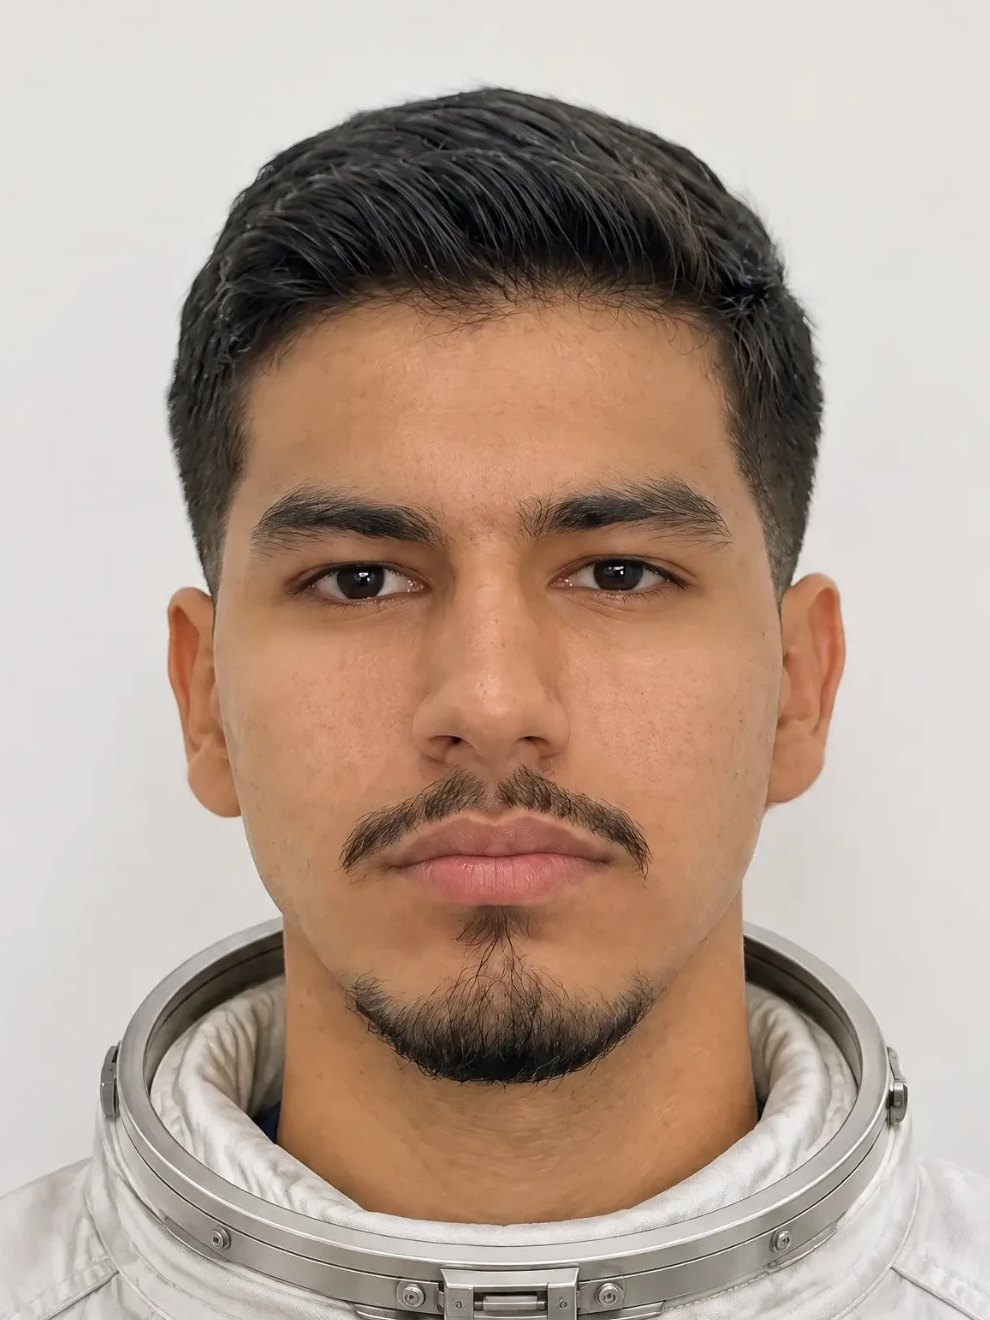
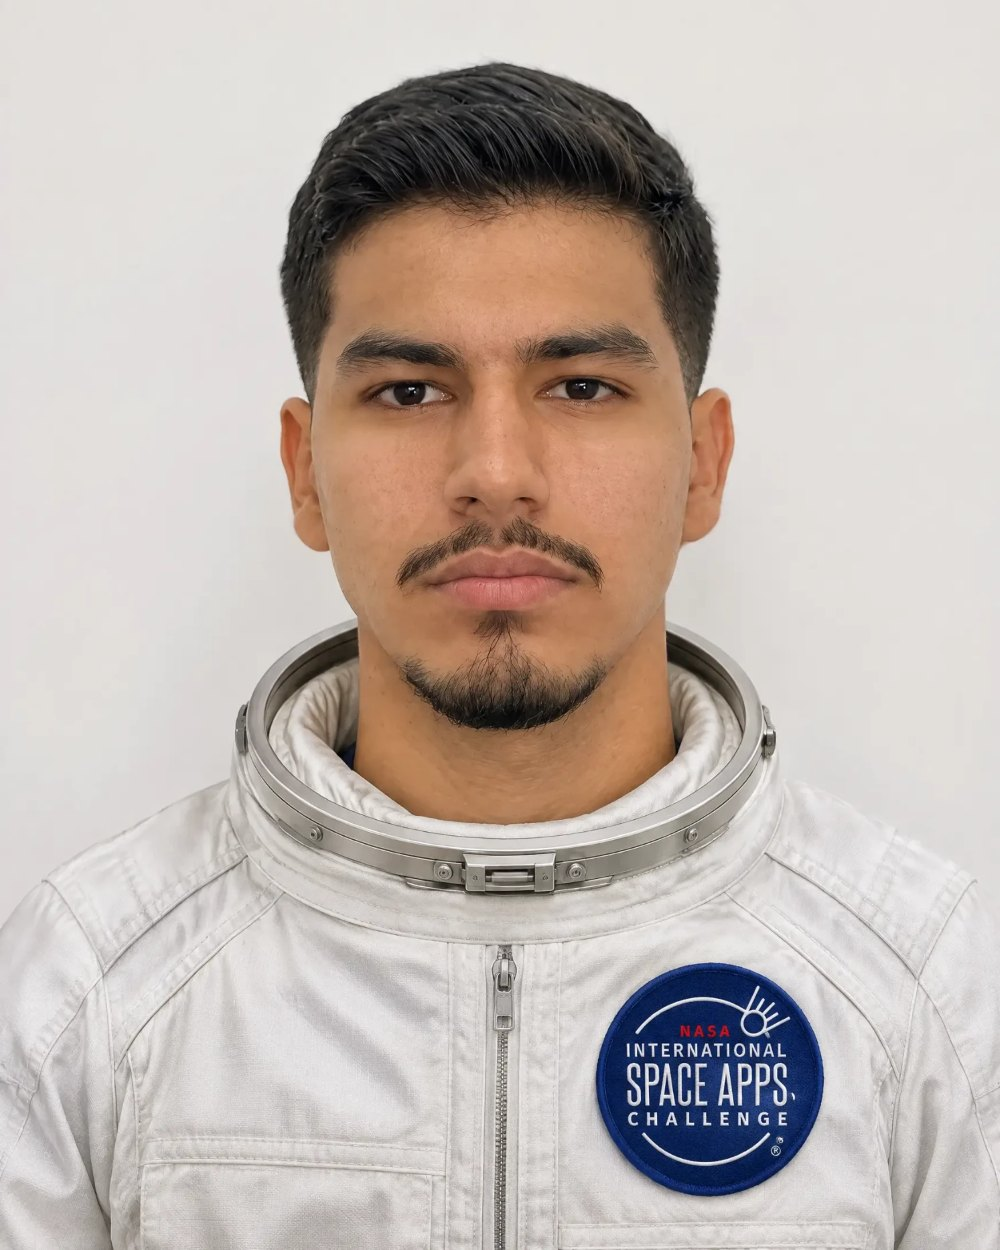
Crew portraits show the full suit with the Space Apps patch
Re-crop the AI-edited spacesuit photos to 4:5 keeping the chest patch, and
give the Crew view portraits a matching 4:5 frame so nothing is cut. Use of AI
paragraph notes that the patch was drawn by the AI edit.

diff --git a/src/styles/crew.css b/src/styles/crew.css
@@ -101,3 +101,5 @@
 .portrait.sm img{transform:scale(1.55);transform-origin:50% 30%}
 .portrait{background:#f2f2f2}
 @media (min-width:641px){.crew-card .portrait{aspect-ratio:auto;height:clamp(260px,26vw,340px)}}
+/* portraits keep the full 4:5 frame so the suit patch is never cut */
+@media (min-width:641px){.crew-card .portrait{height:clamp(260px,26vw,340px);width:auto;aspect-ratio:4/5;max-width:100%}}

diff --git a/README.md b/README.md
@@ -81,7 +81,7 @@ Sources are listed in [`docs/brain/Cerebro-SpaceApps-2026/Fuentes.md`](docs/brai
 
 ## Use of AI
 
-The application code was written with AI assistance: **Claude Code** (Anthropic; Claude Fable 5.2, Claude Sonnet 5.5 and Claude Opus 5.5) ported the single-file prototype to modules and implemented the crew model, Crew view, GO / NO-GO poll, contagion and privacy logic, demo mode, mini-map, offline support, the 3D body and the visual design, under the team's direction and review. Research notes and the product concept were prepared by the team with AI assistance and checked against the NASA and CSA pages cited above. **Crew portraits** are the team members' own photos edited with **Higgsfield** (AI image generation) to dress them in a plain white spacesuit; they were cropped so no logo or patch appears, and each one shows a visible "AI-generated" mark in the app. Any other AI-generated logo or banner artwork used in the team page or slides carries a visible "AI-generated" watermark.
+The application code was written with AI assistance: **Claude Code** (Anthropic; Claude Fable 5.2, Claude Sonnet 5.5 and Claude Opus 5.5) ported the single-file prototype to modules and implemented the crew model, Crew view, GO / NO-GO poll, contagion and privacy logic, demo mode, mini-map, offline support, the 3D body and the visual design, under the team's direction and review. Research notes and the product concept were prepared by the team with AI assistance and checked against the NASA and CSA pages cited above. **Crew portraits** are the team members' own photos edited with **Higgsfield** (AI image generation) to dress them in a white spacesuit with a Space Apps Challenge patch (also drawn by the AI edit); each one shows a visible "AI-generated" mark in the app. Any other AI-generated logo or banner artwork used in the team page or slides carries a visible "AI-generated" watermark.
 
 ## Roadmap
 
